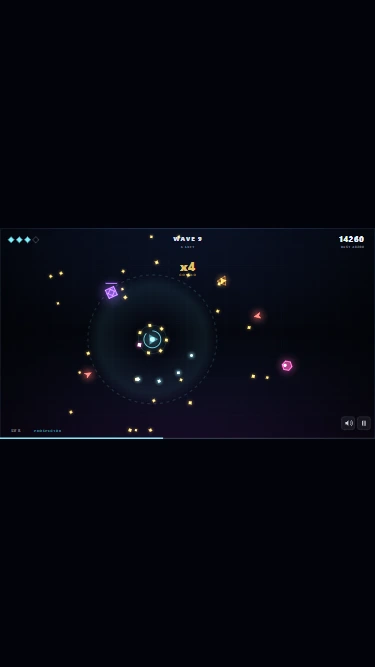
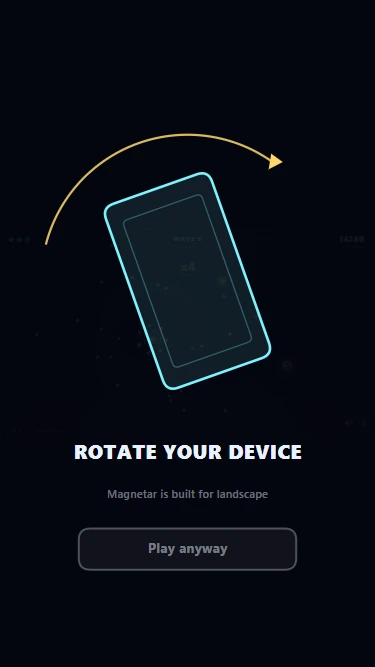
Show the rotate prompt in the README's mobile screenshot
The mobile shot depicted a bare letterboxed strip, which is no longer what a
phone in portrait gets - it gets the prompt. Keeping it would have documented
behaviour the game does not have any more.

Consolidated to one mobile screenshot rather than a before/after pair; the
caption still carries the 375x211 / 32%-of-screen figure that motivated the
prompt, so nothing is lost.

diff --git a/README.md b/README.md
@@ -40,8 +40,7 @@ it throws at you is also the ammunition you kill it with.</sub>
 
 | | |
 |---|---|
-| <img src="docs/screenshot-mobile.webp" width="215" alt="The game on a 375x667 phone screen in portrait: the 16:9 playfield letterboxed into a narrow strip with large black bars above and below"> | <img src="docs/screenshot-rotate.webp" width="215" alt="The rotate prompt: an animated phone turning from portrait to landscape under a sweeping arrow, with ROTATE YOUR DEVICE and a Play anyway button"> |
-| **Portrait without the prompt.** The arena is a fixed 16:9 field scaled to fit, so a 375×667 screen would get a 375×211 strip — **32% of the display**. Landscape gives the playfield the full width, roughly double the scale. | **So the game asks.** Shown only on touch devices in portrait, it pauses the run and covers the letterbox bars too. Always dismissable — orientation can be locked at the OS level, and nobody should ever be stuck. |
+| <img src="docs/screenshot-mobile.webp" width="215" alt="The rotate prompt on a 375x667 phone in portrait: an animated phone turning from portrait to landscape under a sweeping arrow, with ROTATE YOUR DEVICE and a Play anyway button"> | **Portrait on a phone.** The arena is a fixed 16:9 field scaled to fit, so a 375×667 screen would get a 375×211 strip — **32% of the display**. Rather than letterbox into that silently, the game asks for landscape, where the playfield gets the full width at roughly double the scale.<br><br>Shown only on touch devices in portrait, never on desktop and never over an ad. It pauses the run and covers the letterbox bars too. Always dismissable via **Play anyway** — orientation can be locked at the OS level, and nobody should ever be stuck. |
 
 ```
 dist/index.html    <- the submission build (standalone, no dependencies)
